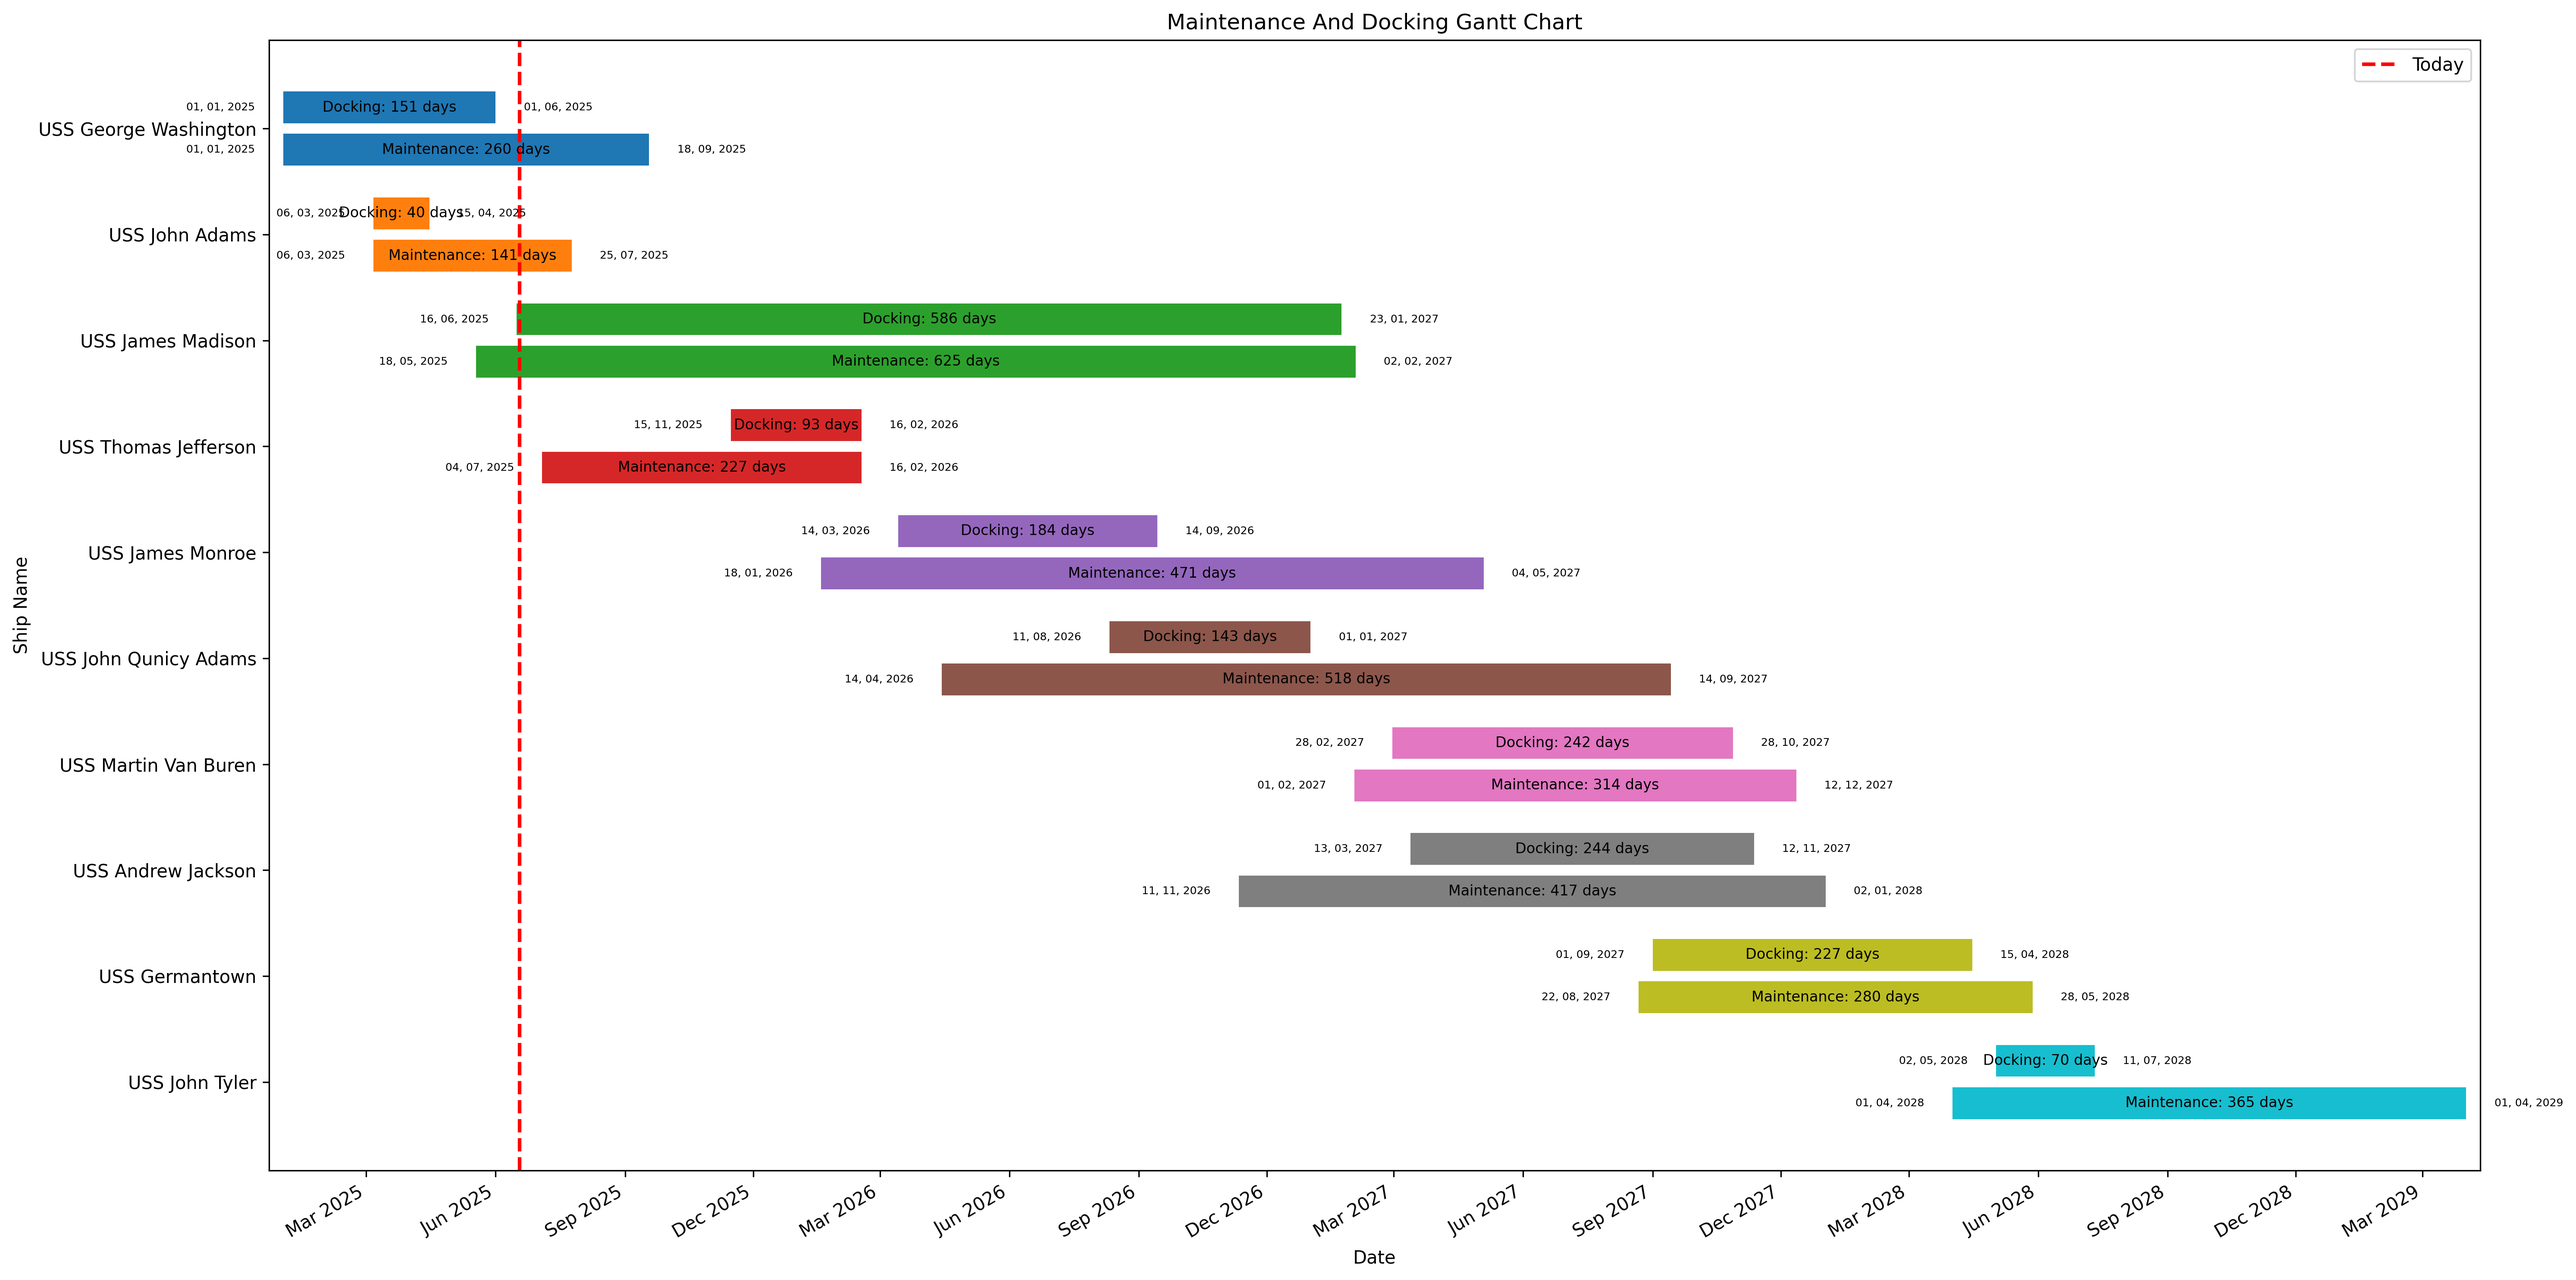
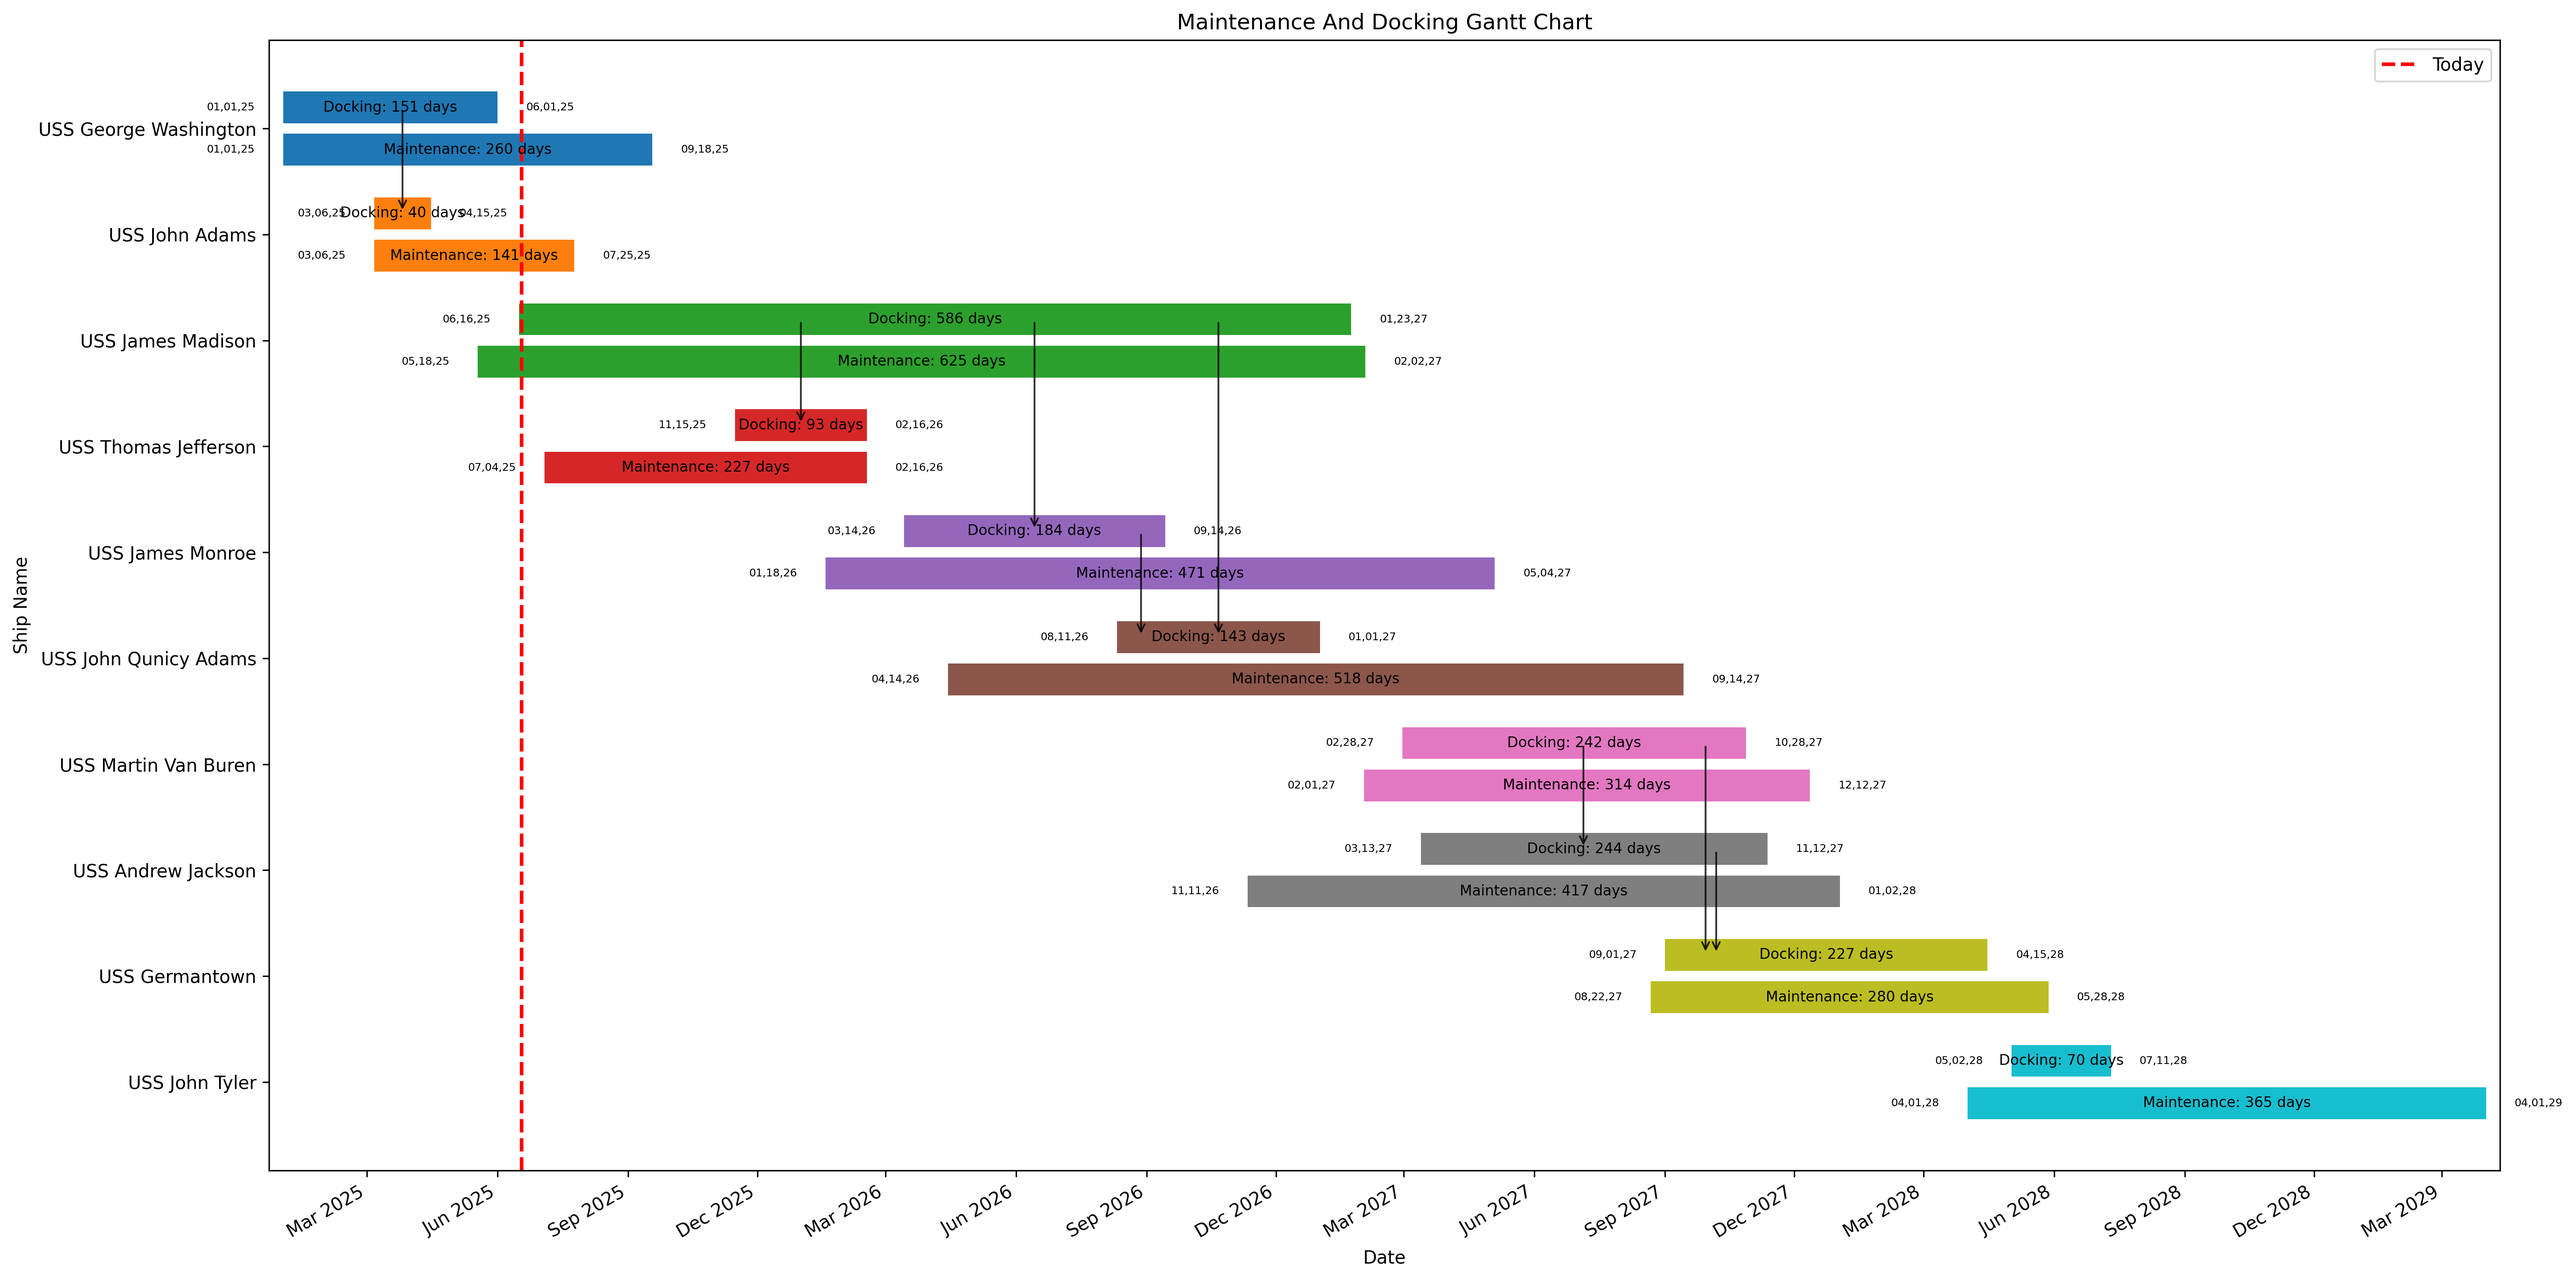
Added dependency arrow functionality

diff --git a/src/chart.py b/src/chart.py
@@ -5,8 +5,9 @@ from transformers import date_transformation, sort_duration_start, add_duration
 from plotter import plot_ship_row
 from aesthetics import colormap, axes_format, today_line, x_axis_margins
 from utils import summary_stats
+from dependencies import draw_docking_overlap
 
-#Data Loading + Transformation
+# Data Loading + Transformation
 ship_df = ship_data_loader("data/Gantt_Chart_Data_Set.xlsx")
 ship_df = date_transformation(ship_df)
 ship_df = sort_duration_start(ship_df)
@@ -15,18 +16,22 @@ ship_df = add_duration(ship_df)
 color_map = colormap(ship_df)
 
 
-#Establish Figure
+# Establish Figure
 fig, ax = plt.subplots(figsize=(20, 10))
 
-#Toggles
+# Toggles
 endpoints = True #show data endpoints
+docking_dependency = True #show docking overlap
 
-#Plot Maintenance + Docking Rows
+# Plot Maintenance + Docking Rows
 for i,row in ship_df.iterrows(): #iterate over DataFrame rows as (index, Series) pairs
     plot_ship_row(ax, i, row, color_map, endpoints)
+    
+# Overlays
+if docking_dependency:
+    draw_docking_overlap(ax, ship_df)
 
-
-#Post-Plotting Aesthetics
+# Post-Plotting Aesthetics
 axes_format(
     ax,
     ship_names=ship_df["Ship Name"].tolist(),
@@ -40,12 +45,12 @@ x_axis_margins(ax, ship_df) #adding some margins to x axis
 
 today_line(ax)
 
-#Summary Stats
+# Summary Stats
 summary_df = summary_stats(ship_df)
 summary_df.to_csv("gantt_stats.csv", index=True)
 print(summary_df)
 
-#Plot Figure
+# Plot Figure
 ax.legend(loc="best")
 plt.tight_layout()
 fig.savefig("gantt_chart.png", dpi=300, bbox_inches="tight")

diff --git a/src/dependencies.py b/src/dependencies.py
@@ -1,0 +1,33 @@
+import matplotlib.pyplot as plt
+import pandas as pd
+
+#show dependency where ship docking overlaps and draw arrow between the bars
+def draw_docking_overlap(ax, df):
+
+    arrow_font = dict(arrowstyle="->", lw=1, color="black", alpha=0.8)
+
+    starts = df["Docking Start Date"]
+    ends   = df["Docking End Date"]
+    n = len(df)
+
+    for i in range(n):
+        for j in range(i + 1, n): #loop through all combinations
+            si, ei = starts.iat[i], ends.iat[i] #iat faster than iloc
+            sj, ej = starts.iat[j], ends.iat[j]
+            if si < ej and sj < ei: #if overlap
+
+                # midpoint of the overlapping interval
+                overlap_start = max(si, sj)
+                overlap_end = min(ei, ej)
+                mid_pt = overlap_start + (overlap_end - overlap_start) / 2
+
+                y_i = i -.2 #-.2 for aesthetic reasons
+                y_j = j -.2
+
+                ax.annotate(
+                    "", #empty string
+                    xy=(mid_pt, y_j), #head of arriw
+                    xytext=(mid_pt, y_i), #start of arrow
+                    arrowprops=arrow_font,
+                    annotation_clip=False #arrows can exist beyond boundaries
+                )

diff --git a/src/plotter.py b/src/plotter.py
@@ -11,7 +11,7 @@ def plot_phase(ax, y_index: int, row: pd.Series, phase: str, start_col: str, end
         width  = duration,
         left = start,
         height = 0.3,
-        color = color,
+        color = color
     )
 
     # annotate
@@ -31,7 +31,7 @@ def plot_phase(ax, y_index: int, row: pd.Series, phase: str, start_col: str, end
         ax.text(
             x = start - pad,
             y = y_index + y_offset,
-            s = start.strftime("%d, %m, %Y"),
+            s = start.strftime("%m,%d,%y"),
             va = "center",
             ha = "right",
             fontsize = 6
@@ -40,7 +40,7 @@ def plot_phase(ax, y_index: int, row: pd.Series, phase: str, start_col: str, end
         ax.text(
             x = end + pad,
             y = y_index + y_offset,
-            s = end.strftime("%d, %m, %Y"),
+            s = end.strftime("%m,%d,%y"),
             va = "center",
             ha = "left",
             fontsize = 6

diff --git a/README.md b/README.md
@@ -18,6 +18,8 @@ ganttchart/
 
 │ ├── data_loader.py # Loads Excel data into DataFrame
 
+│ ├── plotter.py # Dependency arrow functions
+
 │ ├── plotter.py # Modular plotting functions (Matplotlib)
 
 │ ├── transformers.py # Cleans, sorts, and adds duration
@@ -39,6 +41,8 @@ Transformation: transformers.py sorts by docking start date, resets the index, a
 Aesthetics: aesthetics.py provides a function to generate evenly spaced colors for each ship and any default style settings for axes, titles, ect...
 
 Plotting: plotter.py defines reusable functions to draw phased bars, annotate durations, toggle endpoints, and add a "today" line.
+
+Dependency Arrows; Functions that show dependencies, like when two ships overlap docking.
 
 Entry Point: chart.py orchestrates the workflow: load → transform → plot → save or show.
 
@@ -91,7 +95,7 @@ Exploration: I prototyped data transformations and various chart ideas and aesth
 
 Modularization: Functions are grouped by concern (loading, transforming, styling, plotting) to facilitate testing and future extension.
 
-Additional Features: Line that displays current date, automatic color picking for most ideal color set, creation of statistics, exportation of images and stats, toggle to turn on and off endpoint dates
+Additional Features: Line that displays current date, automatic color picking for most ideal color set, creation of statistics, exportation of images and stats, toggle to turn on and off endpoint dates, and dependency arrows.
 
 ## Future Enhancements:
 
@@ -99,8 +103,10 @@ Integrate adjustText to avoid label collisions automatically.
 
 Add Plotly functionality and interactivity.
 
+Add more dependency arrow functionality like maintenance overlap.
+
 ## Approach, Challenges & Design Decisions
 
-I chose a modular architecture to separate data handling from visualization, making it easy to test and swap out components. In the workflow, parsing and cleaning happen first. The color‐mapping and axis‐formatting live in dedicated modules to allow theme changes without touching core logic.
+I chose a modular architecture to separate data handling from visualization, making it easy to test and swap out components. In the workflow, parsing and cleaning happen first. The color‐mapping and axis‐formatting live in dedicated modules to allow theme changes without touching core logic. Additional aesthetic choices like dependency arrows and the today line happen later.
 
-One challenge was balancing label legibility with chart density: narrow intervals could cause start/end labels to overlap. I addressed this by allowing toggles for endpoint annotations, introducing padded offsets, and planning for label‐adjustment libraries. Additionally, I had to plan the best way to separate out code for modularity and easy readability.
+One challenge was balancing label legibility with chart density: narrow intervals could cause start/end labels to overlap. I addressed this by allowing toggles for endpoint annotations, introducing padded offsets, and scaled back the number of ticks on the x axis. Additionally, I had to plan the best way to separate out code for modularity and easy readability. Another technical challenge faced was regarding the dependency arrow function. I currently used two nested loops that check all overlaps in O(n^2), but in the future with sorting this could be reduced to O(nlogn).
